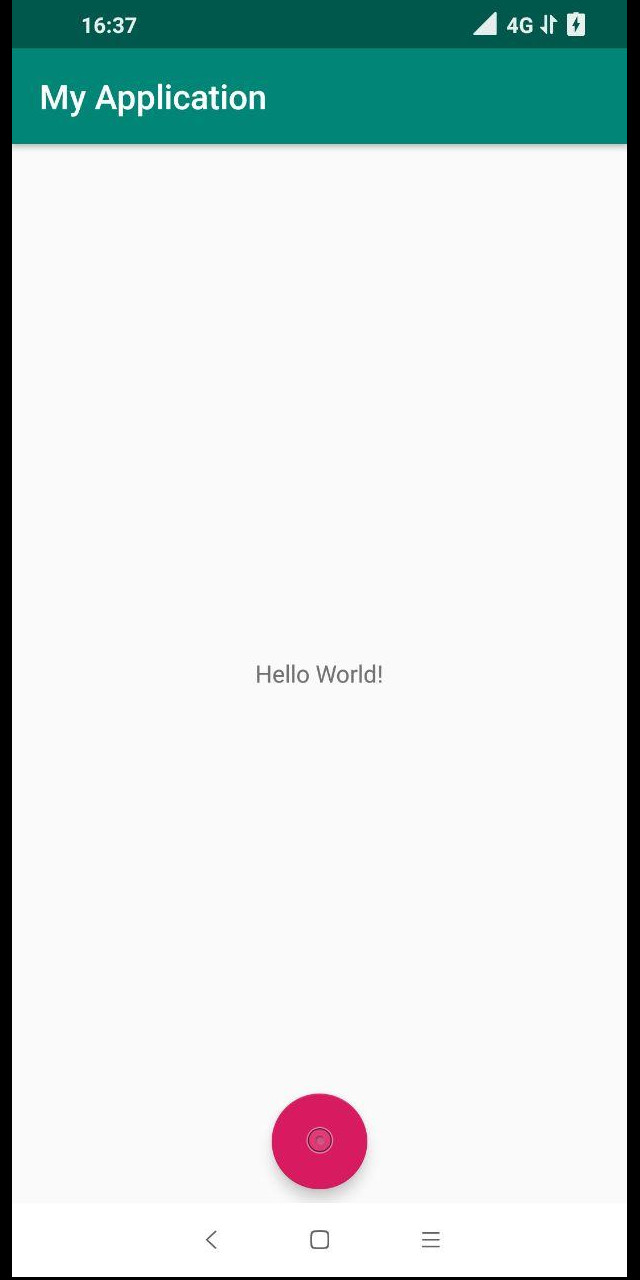
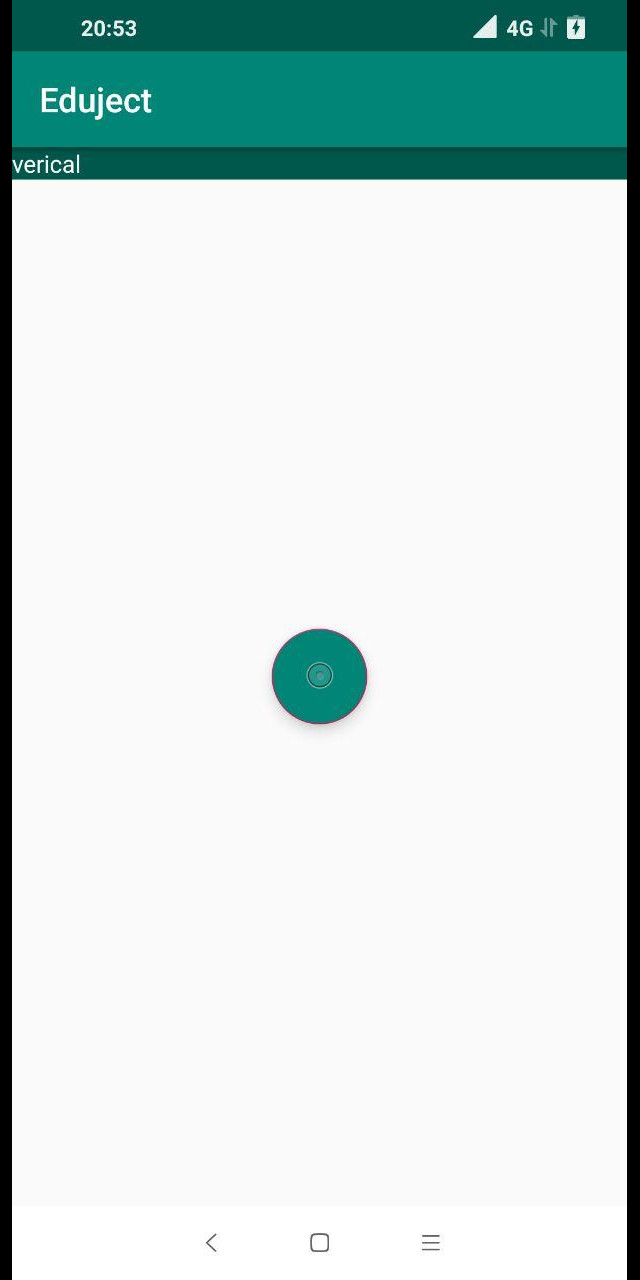
debug to production

diff --git a/app/src/main/java/io/milkpp/kofes/myapplication/MainActivity.kt b/app/src/main/java/io/milkpp/kofes/myapplication/MainActivity.kt
@@ -9,6 +9,7 @@ import android.hardware.SensorManager
 import android.support.v7.app.AppCompatActivity
 import android.os.Bundle
 import android.view.View
+import android.view.ViewGroup
 import android.view.animation.Animation
 import android.view.animation.RotateAnimation
 import com.google.android.gms.ads.*
@@ -41,15 +42,15 @@ class MainActivity : AppCompatActivity() {
         requestedOrientation = ActivityInfo.SCREEN_ORIENTATION_PORTRAIT
         setContentView(R.layout.activity_main)
 
+        MobileAds.initialize(this, getString(R.string.admob_app_id))
+        firebaseAnalytics = FirebaseAnalytics.getInstance(this)
+
+        sensorManager = getSystemService(Context.SENSOR_SERVICE) as SensorManager
+
         bottom_orientation.max = 360
         bottom_orientation.min = 0
         left_orientation.max = 360
         left_orientation.min = 0
-
-        MobileAds.initialize(this, "ca-app-pub-3940256099942544~3347511713")
-        firebaseAnalytics = FirebaseAnalytics.getInstance(this)
-
-        sensorManager = getSystemService(Context.SENSOR_SERVICE) as SensorManager
 
         sensorEventListener = object: SensorEventListener {
             override fun onAccuracyChanged(sensor: Sensor?, accuracy: Int) {}
@@ -98,6 +99,8 @@ class MainActivity : AppCompatActivity() {
                     //
                     val checker = sqrt(cos(accumulatedYAngle / counter) * cos(accumulatedYAngle / counter)
                                 + cos(accumulatedZAngle / counter) * cos(accumulatedZAngle / counter))
+                    val zAngle = (accumulatedZAngle / counter / 2 / Math.PI) * 360 + 180
+                    val yAngle = (accumulatedYAngle / counter / Math.PI) * 360 + 180
                     if (checker > 1.41) {
                         text_view.setBackgroundColor(getColor(R.color.colorAccent))
                         text_view.text = "horizontal"
@@ -105,8 +108,8 @@ class MainActivity : AppCompatActivity() {
                         text_view.setBackgroundColor(getColor(R.color.colorPrimaryDark))
                         text_view.text = "verical"
                     }
-                    bottom_orientation.setProgress((accumulatedYAngle / counter / Math.PI * 360 + 180).toInt(), true)
-                    left_orientation.setProgress(((accumulatedZAngle / counter) / Math.PI * 360 + 180).toInt(), true)
+                    bottom_orientation.setProgress(zAngle.toInt(), true)
+                    left_orientation.setProgress(yAngle.toInt(), true)
                     val angle: Float = ((accumulatedXAngle / counter) / Math.PI * 360).toFloat()
                     val rotateAnimation = RotateAnimation(
                         currentOrientation,
@@ -135,8 +138,12 @@ class MainActivity : AppCompatActivity() {
         }
     }
 
+    private var adCounter: Long = 0
+    private var adDeltaCounter: Long = 3
+
     override fun onResume() {
         super.onResume()
+        //
         bottom_orientation.max = 360
         bottom_orientation.min = 0
         left_orientation.max = 360
@@ -158,7 +165,7 @@ class MainActivity : AppCompatActivity() {
         }
         //
         val adView = InterstitialAd(this)
-        adView.adUnitId = "ca-app-pub-3940256099942544/1033173712"
+        adView.adUnitId = getString(R.string.admob_interstitial_id)
         adView.loadAd(AdRequest.Builder().build())
         adView.adListener = object : AdListener() {
             override fun onAdClosed() {
@@ -168,8 +175,11 @@ class MainActivity : AppCompatActivity() {
         }
 
         float_button.setOnClickListener {
-            if (adView.isLoaded)
+            if (adCounter >= adDeltaCounter && adView.isLoaded) {
                 adView.show()
+                adCounter = 0
+            } else
+                ++adCounter
             when (stateView) {
                 StateView.SHOW_NOTHING -> {
                     compass_view.visibility = View.VISIBLE
